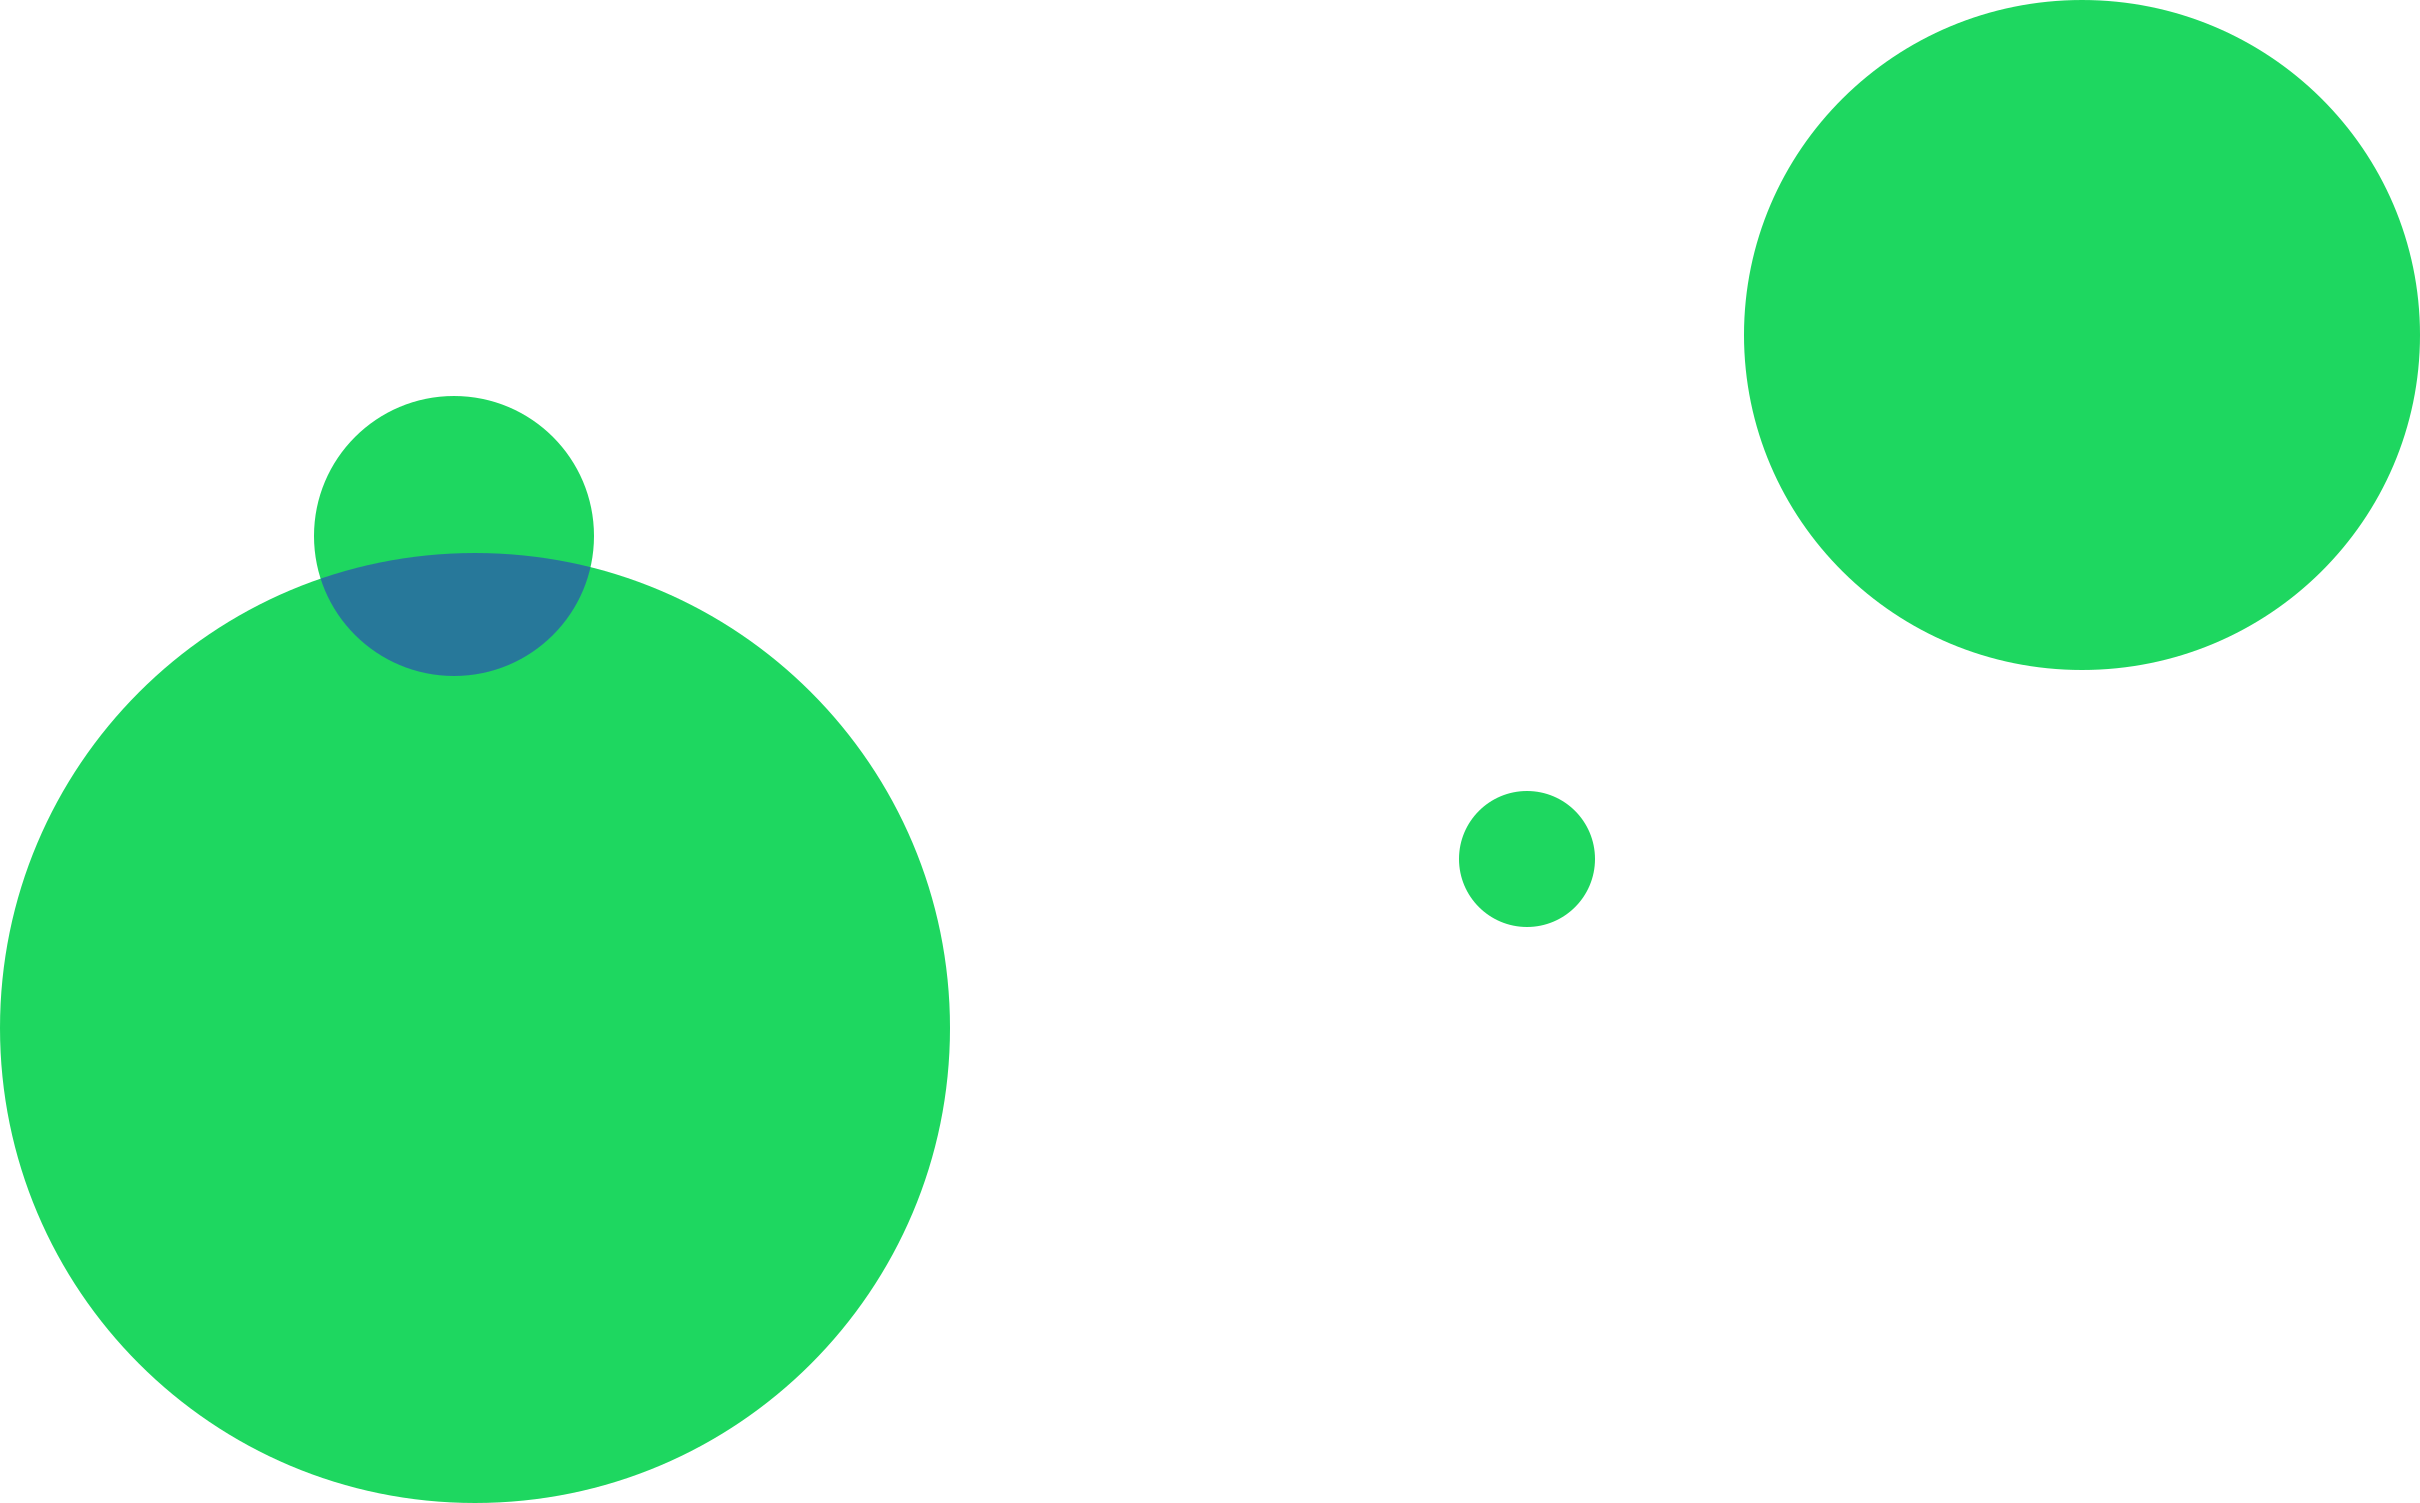
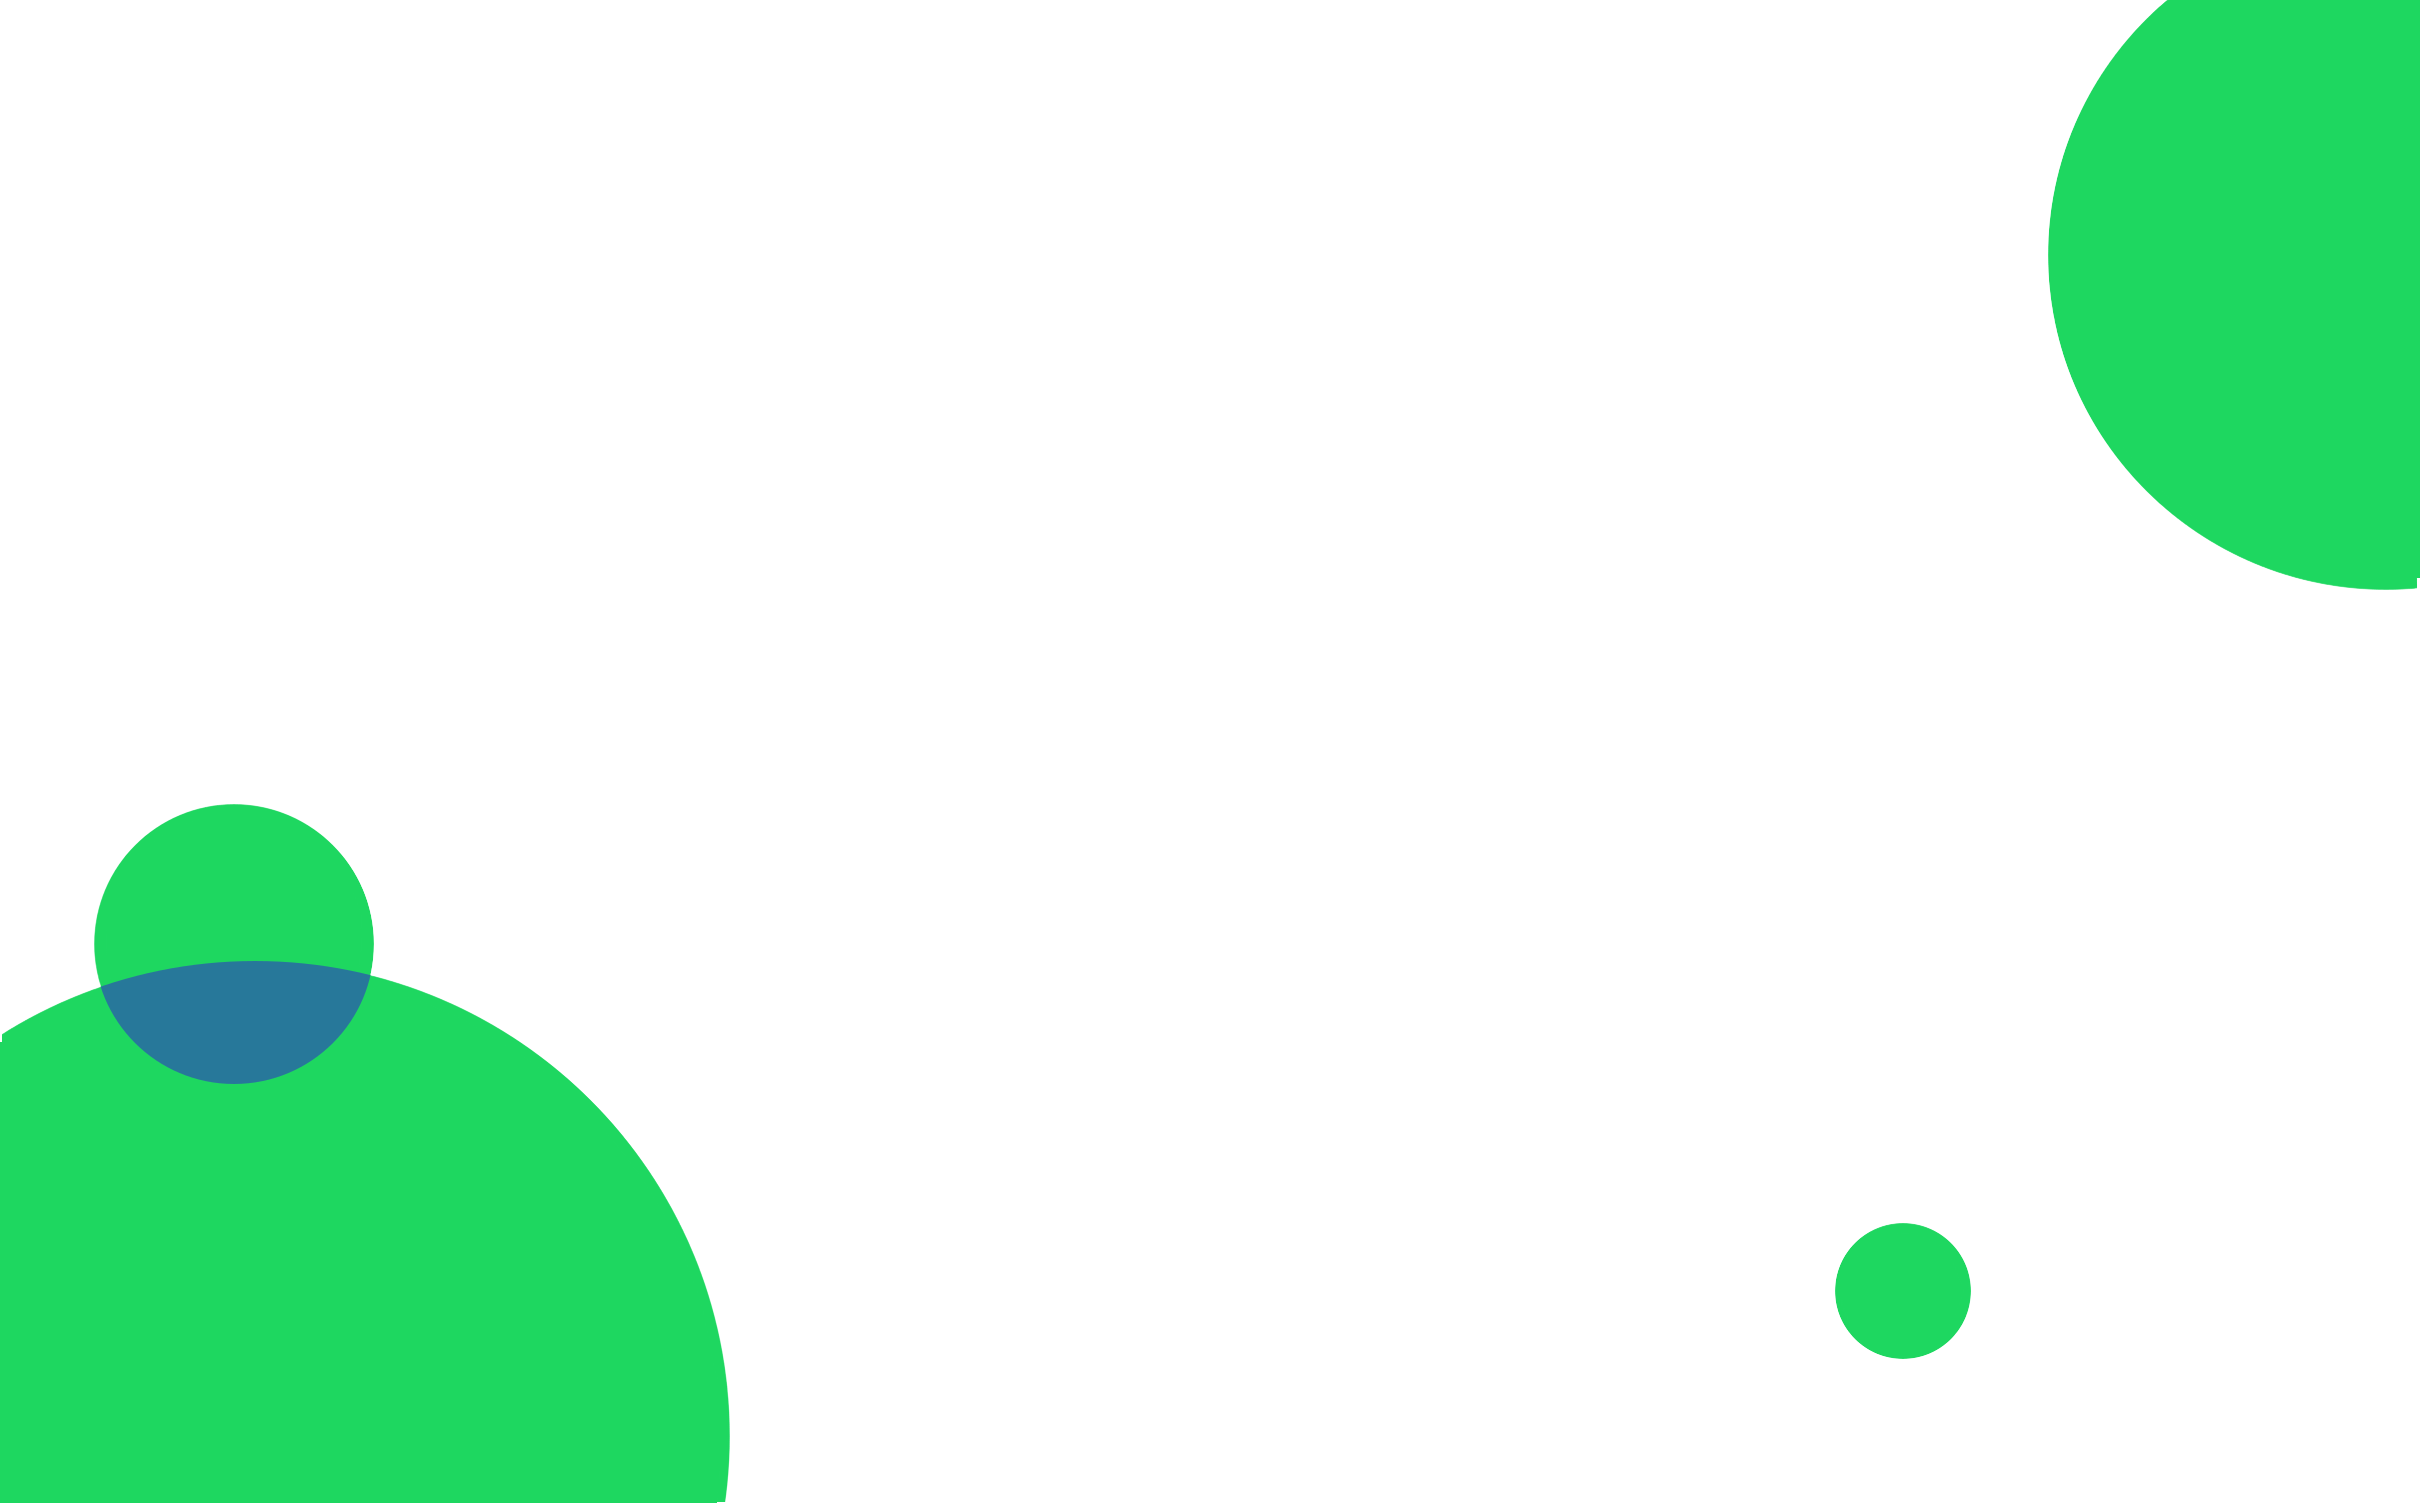
Aplicando bg no content e continuação do footer
- Instalação do Material UI Icons
- Inserção do bg no content
- Estilização do footer em andamento

diff --git a/src/components/Footer.js b/src/components/Footer.js
@@ -1,5 +1,6 @@
 import React from "react";
 import Logo from "../img/logo.png";
+import { Instagram, Twitter, Facebook } from "@mui/icons-material";
 
 const Footer = () => {
   return (
@@ -36,15 +37,25 @@ const Footer = () => {
           <li>Player da Web</li>
           <li>Aplicativo móvel grátis</li>
         </ul>
+        <ul className="flex">
+          <li className="bg-[#222326] mx-2 h-14 w-14 rounded-full flex justify-center items-center">
+            <Instagram className="text-white hover:text-[#1ed760]" />
+          </li>
+          <li className="bg-[#222326] mx-2 h-14 w-14 rounded-full flex justify-center items-center">
+            <Twitter className="text-white hover:text-[#1ed760]" />
+          </li>
+          <li className="bg-[#222326] mx-2 h-14 w-14 rounded-full flex justify-center items-center">
+            <Facebook className="text-white hover:text-[#1ed760]" />
+          </li>
+        </ul>
       </div>
-
       <div className="flex justify-between text-[12px] text-[#919496] items-end leading-7">
         <ul className="flex justify-between w-[500px]">
-          <li>Legal</li>
-          <li>Centro de Privacidade</li>
-          <li>Política de privacidade</li>
-          <li>Cookies</li>
-          <li>Sobre anúncios</li>
+          <li className="hover:text-[#1ed760]">Legal</li>
+          <li className="hover:text-[#1ed760]">Centro de Privacidade</li>
+          <li className="hover:text-[#1ed760]">Política de privacidade</li>
+          <li className="hover:text-[#1ed760]">Cookies</li>
+          <li className="hover:text-[#1ed760]">Sobre anúncios</li>
         </ul>
         <ul className="text-right">
           <li>Brasil</li>

diff --git a/src/components/Content.js b/src/components/Content.js
@@ -2,7 +2,7 @@ import React from "react";
 
 const Content = () => {
   return (
-    <div className="bg-[#2941ab] h-[846px]">
+    <div className="bg-[#2941ab] h-[846px] bg-content bg-cover">
       <h1 className="text-[#1ed760] font-bold text-[150px] tracking-tight leading-[150px] flex justify-center text-center pt-40">
         Escutar muda <br />
         tudo

diff --git a/tailwind.config.js b/tailwind.config.js
@@ -3,7 +3,11 @@ module.exports = {
     "./src/**/*.{js,jsx,ts,tsx}",
   ],
   theme: {
-    extend: {},
+    extend: {
+      backgroundImage: theme => ({
+        "content": "url('img/circulos-bg.png')"
+      }),
+    },
   },
   plugins: [],
 }
